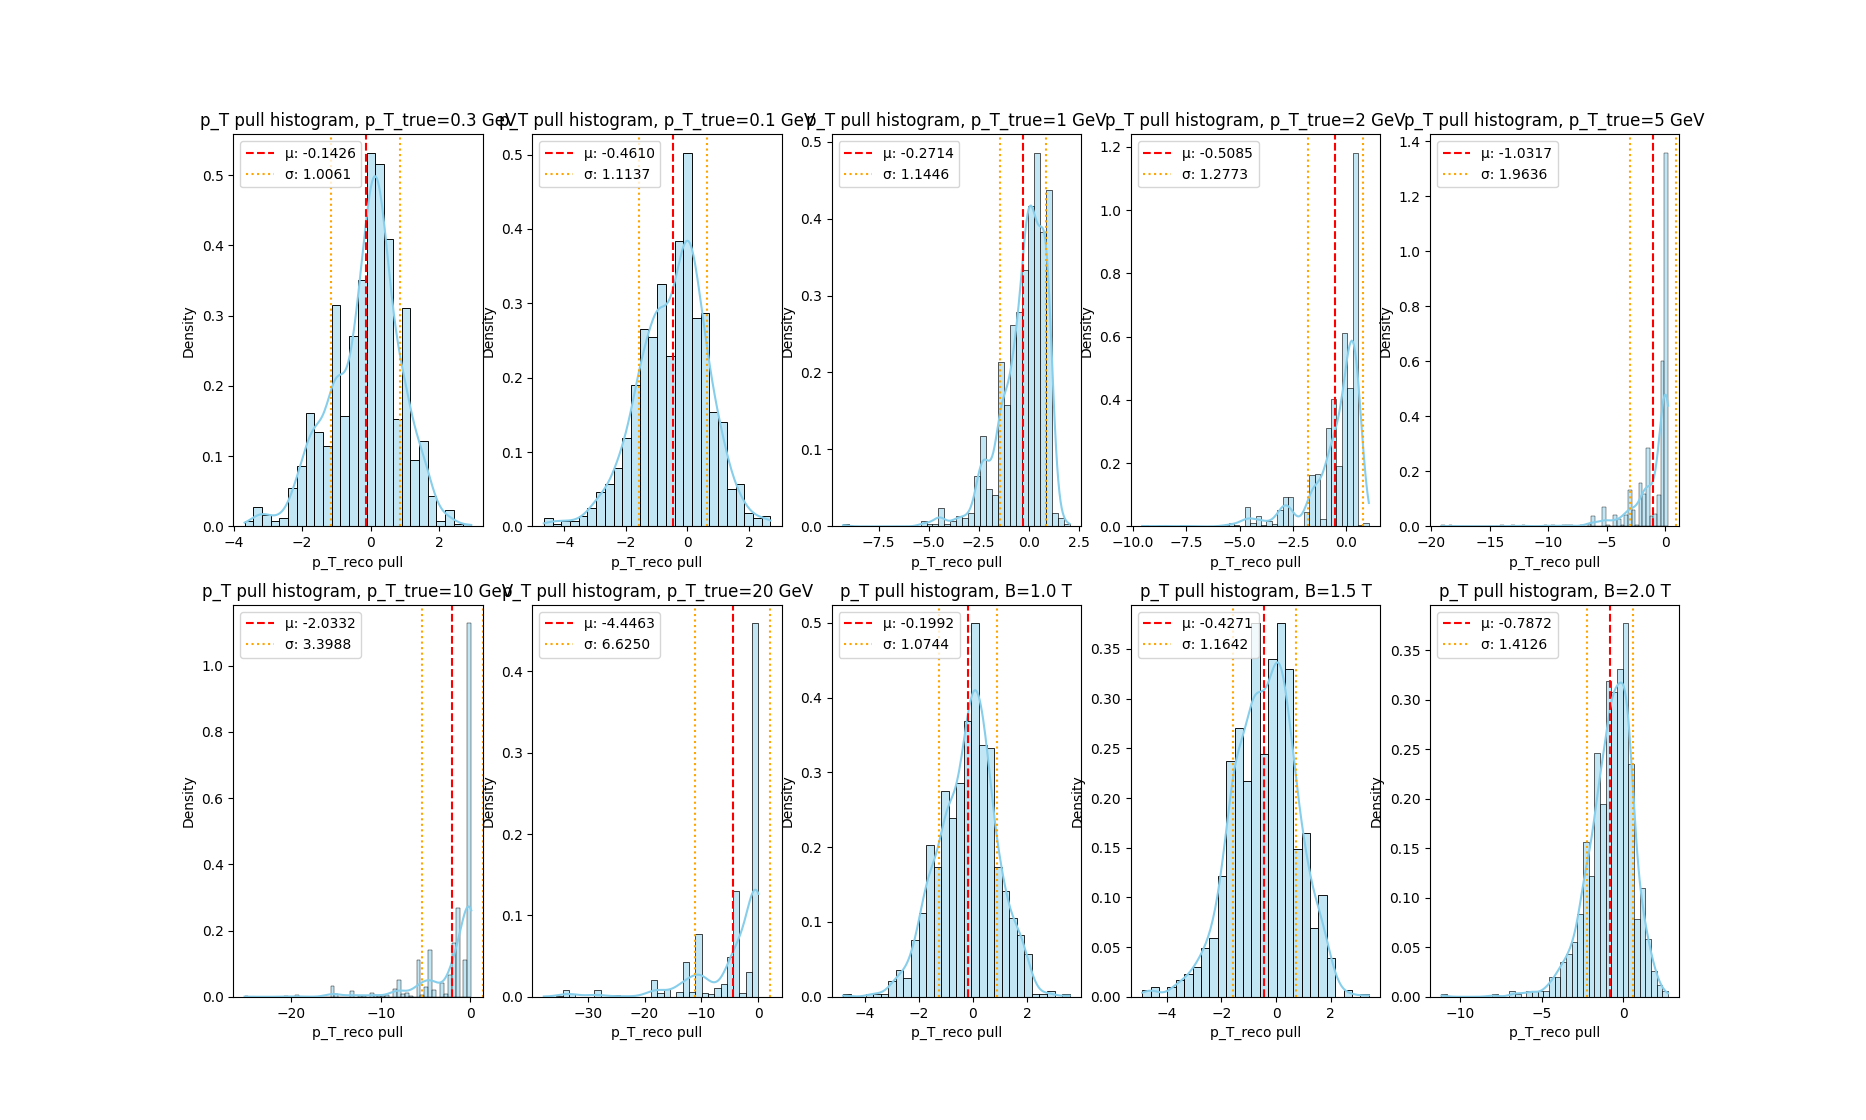
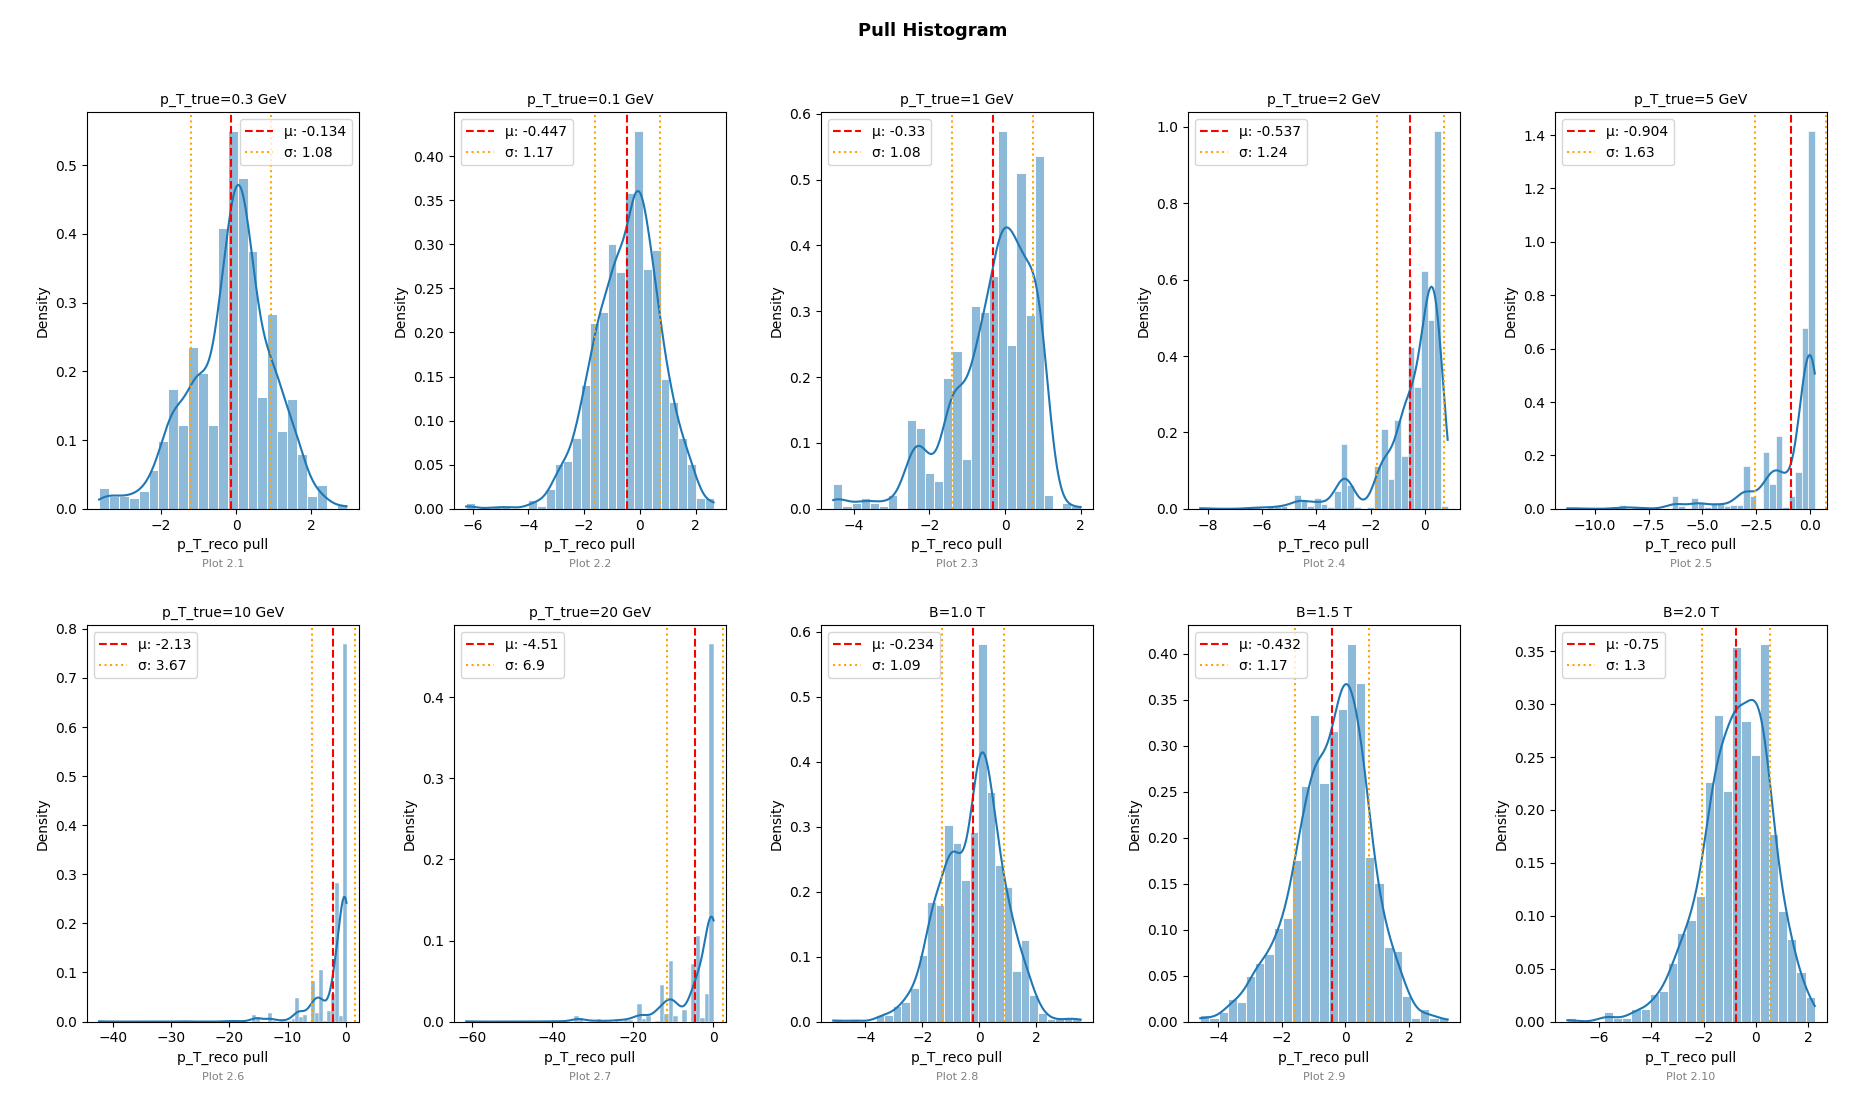
changed formating and layout of plots

diff --git a/Project.py b/Project.py
@@ -292,9 +292,9 @@ def Momentum_Resolution():
     
     print(f"--- Warmup: Reconstruction of p_T ---")
     print(f"p_T true: {p_T_true} GeV")
-    print(f"p_T reconstructed: {p_T_reco_warmup:.5f} GeV")
-    print(f"diff p_T true and reco: {np.abs(p_T_true - p_T_reco_warmup):.5f} GeV")
-    print(f"uncertainty of reconstruction: {p_T_reco_unc_warmup:.5f} GeV")
+    print(f"p_T reconstructed: {p_T_reco_warmup:.3g} GeV")
+    print(f"diff p_T true and reco: {np.abs(p_T_true - p_T_reco_warmup):.3g} GeV")
+    print(f"uncertainty of reconstruction: {p_T_reco_unc_warmup:.3g} GeV")
     print()
 
     # plot of simulation
@@ -391,6 +391,7 @@ def Momentum_Resolution():
     ## d) calculate histograms of differences ##
     # prepare plots
     fig, ax = plt.subplots(2, 5, figsize=(20, 12))
+    fig.suptitle("Resolution Histogram", fontsize=13, fontweight="bold")
     #fig.tight_layout(pad=3.0)
     ax = ax.flatten()
 
@@ -412,9 +413,9 @@ def Momentum_Resolution():
     mean = np.mean(p_T_diff)
     std = np.std(p_T_diff)
 
-    print(f"--- p_T difference histogram statistics p_T_true={p_T_true} GeV, B = {magnet_10_0_5.B} T ---")
-    print(f"μ: {mean} [GeV]")
-    print(f"σ: {std} [GeV]")
+    print(f"--- p_T Resolution histogram statistics p_T_true={p_T_true} GeV, B = {magnet_10_0_5.B} T ---")
+    print(f"μ: {mean:.3g} [GeV]")
+    print(f"σ: {std:.3g} [GeV]")
     print()
 
     # save mean/std
@@ -424,12 +425,13 @@ def Momentum_Resolution():
     B_stds_diff.append(std)
 
     # plot histogram
-    sns.histplot(p_T_diff, bins="auto", stat="density", kde=True, color="skyblue", ax=ax[0])
-    ax[0].axvline(mean, color="red", linestyle="dashed", label=f"μ: {mean:.4f}")
-    ax[0].axvline(mean + std, color="orange", linestyle=":", label=f"σ: {std:.4f}")
+    sns.histplot(p_T_diff, bins="auto", stat="density", kde=True, edgecolor="white", ax=ax[0])
+    ax[0].axvline(mean, color="red", linestyle="dashed", label=f"μ: {mean:.3g}")
+    ax[0].axvline(mean + std, color="orange", linestyle=":", label=f"σ: {std:.3g}")
     ax[0].axvline(mean - std, color="orange", linestyle=":")
-    ax[0].set_title("p_T diff histogram, p_T_true=0.3 GeV")
+    ax[0].set_title("p_T_true=0.3 GeV", fontsize=10)
     ax[0].set_xlabel("p_T_reco − p_T_true [GeV]")
+    ax[0].annotate(f'Plot 1.1', xy=(0.5, -0.14), xycoords='axes fraction', ha='center', va='center', fontsize=8, color='gray')
     ax[0].set_ylabel("Density")
     ax[0].legend()
 
@@ -437,6 +439,7 @@ def Momentum_Resolution():
     ## e) calculate histogram  of pulls ##
     # prepare plots
     fig2, bx = plt.subplots(2, 5, figsize=(20, 12))
+    fig2.suptitle("Pull Histogram", fontsize=13, fontweight="bold")
     #fig2.tight_layout(pad=3.0)
     bx = bx.flatten()
 
@@ -448,9 +451,9 @@ def Momentum_Resolution():
     mean = np.mean(p_T_pulls_0_3)
     std = np.std(p_T_pulls_0_3)
 
-    print(f"--- p_T pull histogram statistics p_T_true={p_T_true} GeV, B = {magnet_10_0_5.B} T ---")
-    print(f"μ: {mean} [GeV]")
-    print(f"σ: {std} [GeV]")
+    print(f"--- p_T Pull histogram statistics p_T_true={p_T_true} GeV, B = {magnet_10_0_5.B} T ---")
+    print(f"μ: {mean:3g} [GeV]")
+    print(f"σ: {std:3g} [GeV]")
     print()
 
     # save mean/std
@@ -460,13 +463,14 @@ def Momentum_Resolution():
     B_stds_pull.append(std)
 
     # plot histogram
-    sns.histplot(p_T_pulls_0_3, bins="auto", stat="density", kde=True, color="skyblue", ax=bx[0])
-    bx[0].axvline(mean, color="red", linestyle="dashed", label=f"μ: {mean:.4f}")
-    bx[0].axvline(mean + std, color="orange", linestyle=":", label=f"σ: {std:.4f}")
+    sns.histplot(p_T_pulls_0_3, bins="auto", stat="density", kde=True, edgecolor="white", ax=bx[0])
+    bx[0].axvline(mean, color="red", linestyle="dashed", label=f"μ: {mean:.3g}")
+    bx[0].axvline(mean + std, color="orange", linestyle=":", label=f"σ: {std:.3g}")
     bx[0].axvline(mean - std, color="orange", linestyle=":")
-    bx[0].set_title("p_T pull histogram, p_T_true=0.3 GeV")
+    bx[0].set_title("p_T_true=0.3 GeV", fontsize=10)
     bx[0].set_xlabel("p_T_reco pull")
     bx[0].set_ylabel("Density")
+    bx[0].annotate(f'Plot 2.1', xy=(0.5, -0.14), xycoords='axes fraction', ha='center', va='center', fontsize=8, color='gray')
     bx[0].legend()
 
     # prepare plots for overlay plot
@@ -480,13 +484,13 @@ def Momentum_Resolution():
     colors_B  = plt.cm.plasma(np.linspace(0.2, 1, 4))
 
     # calculate kde
-    cx[0].plot(x_ref, gaussian_kde(p_T_pulls_0_3)(x_ref), color=colors_pT[0], label=f"p_T=0.3 GeV (μ={mean:.2f}, σ={std:.2f})")
-    cx[1].plot(x_ref, gaussian_kde(p_T_pulls_0_3)(x_ref), color=colors_pT[0], label=f"B=0.5 T (μ={mean:.2f}, σ={std:.2f})")
+    cx[0].plot(x_ref, gaussian_kde(p_T_pulls_0_3)(x_ref), color=colors_pT[0], label=f"p_T=0.3 GeV (μ={mean:.3g}, σ={std:.3g})")
+    cx[1].plot(x_ref, gaussian_kde(p_T_pulls_0_3)(x_ref), color=colors_pT[0], label=f"B=0.5 T (μ={mean:.3g}, σ={std:.3g})")
 
     # plot mean/std as s function of p_T_true and B
     fig4, dx = plt.subplots(2, 4, figsize=(20, 12))
     dx = dx.flatten()
-    fig4.suptitle("Evolution of Diff/Pull Statistcs", fontsize=13, fontweight="bold")
+    fig4.suptitle("Evolution of Resolution/Pull Statistcs", fontsize=13, fontweight="bold")
     p_T_x_range = [0.3,0.1,1,2,5,10,20]
     B_x_range = [0.5,1.0,1.5,2.0]
 
@@ -582,9 +586,9 @@ def Momentum_Resolution():
         mean = np.mean(p_T_diff)
         std = np.std(p_T_diff)
 
-        print(f"--- p_T difference histogram statistics p_T_true={p_T} GeV, B={magnet_10_0_5.B} T ---")
-        print(f"μ: {mean} [GeV]")
-        print(f"σ: {std} [GeV]")
+        print(f"--- p_T Resolution histogram statistics p_T_true={p_T} GeV, B={magnet_10_0_5.B} T ---")
+        print(f"μ: {mean:.3g} [GeV]")
+        print(f"σ: {std:.3g} [GeV]")
         print()
 
         # save mean/std
@@ -592,13 +596,14 @@ def Momentum_Resolution():
         p_T_stds_diff.append(std)
 
         # plot histogram
-        sns.histplot(p_T_diff, bins="auto", stat="density", kde=True, color="skyblue", ax=ax[index])
-        ax[index].axvline(mean, color="red", linestyle="dashed", label=f"μ: {mean:.4f}")
-        ax[index].axvline(mean + std, color="orange", linestyle=":", label=f"σ: {std:.4f}")
+        sns.histplot(p_T_diff, bins="auto", stat="density", kde=True, edgecolor="white", ax=ax[index])
+        ax[index].axvline(mean, color="red", linestyle="dashed", label=f"μ: {mean:.3g}")
+        ax[index].axvline(mean + std, color="orange", linestyle=":", label=f"σ: {std:.3g}")
         ax[index].axvline(mean - std, color="orange", linestyle=":")
-        ax[index].set_title(f"p_T diff histogram, p_T_true={p_T} GeV")
+        ax[index].set_title(f"p_T_true={p_T} GeV", fontsize=10)
         ax[index].set_xlabel("p_T_reco − p_T_true [GeV]")
         ax[index].set_ylabel("Density")
+        ax[index].annotate(f'Plot 1.{index+1}', xy=(0.5, -0.14), xycoords='axes fraction', ha='center', va='center', fontsize=8, color='gray')
         ax[index].legend()
 
 
@@ -611,9 +616,9 @@ def Momentum_Resolution():
         mean = np.mean(p_T_pulls)
         std = np.std(p_T_pulls)
 
-        print(f"--- p_T pull histogram statistics p_T_true={p_T} GeV, B={magnet_10_0_5.B} T ---")
-        print(f"μ: {mean} [GeV]")
-        print(f"σ: {std} [GeV]")
+        print(f"--- p_T Pull histogram statistics p_T_true={p_T} GeV, B={magnet_10_0_5.B} T ---")
+        print(f"μ: {mean:.3g} [GeV]")
+        print(f"σ: {std:.3g} [GeV]")
         print()
 
         # save mean/std
@@ -621,17 +626,18 @@ def Momentum_Resolution():
         p_T_stds_pull.append(std)
 
         # plot histogram
-        sns.histplot(p_T_pulls, bins="auto", stat="density", kde=True, color="skyblue", ax=bx[index])
-        bx[index].axvline(mean, color="red", linestyle="dashed", label=f"μ: {mean:.4f}")
-        bx[index].axvline(mean + std, color="orange", linestyle=":", label=f"σ: {std:.4f}")
+        sns.histplot(p_T_pulls, bins="auto", stat="density", kde=True, edgecolor="white", ax=bx[index])
+        bx[index].axvline(mean, color="red", linestyle="dashed", label=f"μ: {mean:.3g}")
+        bx[index].axvline(mean + std, color="orange", linestyle=":", label=f"σ: {std:.3g}")
         bx[index].axvline(mean - std, color="orange", linestyle=":")
-        bx[index].set_title(f"p_T pull histogram, p_T_true={p_T} GeV")
+        bx[index].set_title(f"p_T_true={p_T} GeV", fontsize=10)
         bx[index].set_xlabel("p_T_reco pull")
         bx[index].set_ylabel("Density")
+        bx[index].annotate(f'Plot 2.{index+1}', xy=(0.5, -0.14), xycoords='axes fraction', ha='center', va='center', fontsize=8, color='gray')
         bx[index].legend()
 
         # plot kde
-        cx[0].plot(x_ref, gaussian_kde(p_T_pulls)(x_ref), color=colors_pT[index], label=f"p_T={p_T} GeV (μ={mean:.2f}, σ={std:.2f})")
+        cx[0].plot(x_ref, gaussian_kde(p_T_pulls)(x_ref), color=colors_pT[index], label=f"p_T={p_T} GeV (μ={mean:.3g}, σ={std:.3g})")
 
 
     ### Repeat c)-e) for B in in {1.0,1.5,2.0} T, p_T_true = 0.3 GeV ###
@@ -727,9 +733,9 @@ def Momentum_Resolution():
         mean = np.mean(p_T_diff)
         std = np.std(p_T_diff)
 
-        print(f"--- p_T difference histogram statistics p_T_true={p_T_true} GeV, B={magnet_10.B} T ---")
-        print(f"μ: {mean} [GeV]")
-        print(f"σ: {std} [GeV]")
+        print(f"--- p_T Resolution histogram statistics p_T_true={p_T_true} GeV, B={magnet_10.B} T ---")
+        print(f"μ: {mean:.3g} [GeV]")
+        print(f"σ: {std:.3g} [GeV]")
         print()
 
         # save mean/std
@@ -737,13 +743,14 @@ def Momentum_Resolution():
         B_stds_diff.append(std)
 
         # plot histogram
-        sns.histplot(p_T_diff, bins="auto", stat="density", kde=True, color="skyblue", ax=ax[index])
-        ax[index].axvline(mean, color="red", linestyle="dashed", label=f"μ: {mean:.4f}")
-        ax[index].axvline(mean + std, color="orange", linestyle=":", label=f"σ: {std:.4f}")
+        sns.histplot(p_T_diff, bins="auto", stat="density", kde=True, edgecolor="white", ax=ax[index])
+        ax[index].axvline(mean, color="red", linestyle="dashed", label=f"μ: {mean:.3g}")
+        ax[index].axvline(mean + std, color="orange", linestyle=":", label=f"σ: {std:.3g}")
         ax[index].axvline(mean - std, color="orange", linestyle=":")
-        ax[index].set_title(f"p_T diff histogram, B={magnet_10.B} T")
+        ax[index].set_title(f"B={magnet_10.B} T", fontsize=10)
         ax[index].set_xlabel("p_T_reco − p_T_true [GeV]")
         ax[index].set_ylabel("Density")
+        ax[index].annotate(f'Plot 1.{index+1}', xy=(0.5, -0.14), xycoords='axes fraction', ha='center', va='center', fontsize=8, color='gray')
         ax[index].legend()
 
 
@@ -756,9 +763,9 @@ def Momentum_Resolution():
         mean = np.mean(p_T_pulls)
         std = np.std(p_T_pulls)
 
-        print(f"--- p_T pull histogram statistics p_T_true={p_T_true} GeV, B={magnet_10.B} T ---")
-        print(f"μ: {mean} [GeV]")
-        print(f"σ: {std} [GeV]")
+        print(f"--- p_T Pull histogram statistics p_T_true={p_T_true} GeV, B={magnet_10.B} T ---")
+        print(f"μ: {mean:.3g} [GeV]")
+        print(f"σ: {std:.3g} [GeV]")
         print()
 
         # save mean/std
@@ -766,32 +773,35 @@ def Momentum_Resolution():
         B_stds_pull.append(std)
 
         # plot histogram
-        sns.histplot(p_T_pulls, bins="auto", stat="density", kde=True, color="skyblue", ax=bx[index])
-        bx[index].axvline(mean, color="red", linestyle="dashed", label=f"μ: {mean:.4f}")
-        bx[index].axvline(mean + std, color="orange", linestyle=":", label=f"σ: {std:.4f}")
+        sns.histplot(p_T_pulls, bins="auto", stat="density", kde=True, edgecolor="white", ax=bx[index])
+        bx[index].axvline(mean, color="red", linestyle="dashed", label=f"μ: {mean:.3g}")
+        bx[index].axvline(mean + std, color="orange", linestyle=":", label=f"σ: {std:.3g}")
         bx[index].axvline(mean - std, color="orange", linestyle=":")
-        bx[index].set_title(f"p_T pull histogram, B={magnet_10.B} T")
+        bx[index].set_title(f"B={magnet_10.B} T", fontsize=10)
         bx[index].set_xlabel("p_T_reco pull")
         bx[index].set_ylabel("Density")
+        bx[index].annotate(f'Plot 2.{index+1}', xy=(0.5, -0.14), xycoords='axes fraction', ha='center', va='center', fontsize=8, color='gray')
         bx[index].legend()
 
         # plot kde
-        cx[1].plot(x_ref, gaussian_kde(p_T_pulls)(x_ref), color=colors_B[index-7], label=f"B={magnet_10.B} T (μ={mean:.2f}, σ={std:.2f})")
+        cx[1].plot(x_ref, gaussian_kde(p_T_pulls)(x_ref), color=colors_B[index-7], label=f"B={magnet_10.B} T (μ={mean:.3g}, σ={std:.3g})")
 
     # plot information cx
     cx[0].axvline(0, color='grey', linewidth=0.8, alpha=0.5)
     cx[0].set_xlim(-10, 5)
     cx[0].set_xlabel("Pull")
     cx[0].set_ylabel("Density")
-    cx[0].set_title("Pull vs. p_T_true (B=0.5 T)")
-    cx[0].legend(fontsize=7)
+    cx[0].set_title("Pull vs. p_T_true (B=0.5 T)", fontsize=10)
+    cx[0].annotate(f'Plot 3.{1}', xy=(0.5, -0.12), xycoords='axes fraction', ha='center', va='center', fontsize=8, color='gray')
+    cx[0].legend()
 
     cx[1].axvline(0, color='grey', linewidth=0.8, alpha=0.5)
     cx[1].set_xlim(-10, 5)
     cx[1].set_xlabel("Pull")
     cx[1].set_ylabel("Density")
-    cx[1].set_title("Pull vs. B (p_T_true=0.3 GeV)")
-    cx[1].legend(fontsize=7)
+    cx[1].set_title("Pull vs. B (p_T_true=0.3 GeV)", fontsize=10)
+    cx[1].annotate(f'Plot 3.{2}', xy=(0.5, -0.12), xycoords='axes fraction', ha='center', va='center', fontsize=8, color='gray')
+    cx[1].legend()
 
     
     # swap p_T=0.1 and =0.3 because wrong order (first experiment is with 0.3)
@@ -807,50 +817,64 @@ def Momentum_Resolution():
     dx[0].plot(p_T_x_range, p_T_means_diff, color="orange")
     dx[0].set_xlabel("p_T [GeV]")
     dx[0].set_ylabel("μ of Diff")
-    dx[0].set_title(f"Evolution μ(p_T) of Diff")
+    dx[0].set_title(f"μ(p_T) of Resolution", fontsize=10)
     dx[0].set_ylim(np.min(p_T_means_diff)-1, np.max(p_T_means_diff)+1)
+    dx[0].annotate(f'Plot 4.{1}', xy=(0.5, -0.14), xycoords='axes fraction', ha='center', va='center', fontsize=8, color='gray')
+
     dx[1].plot(p_T_x_range, p_T_means_pull, color="orange")
     dx[1].set_xlabel("p_T [GeV]")
     dx[1].set_ylabel("μ of Pull")
-    dx[1].set_title(f"Evolution μ(p_T) of Pull")
+    dx[1].set_title(f"μ(p_T) of Pull", fontsize=10)
     dx[1].set_ylim(np.min(p_T_means_pull)-1, np.max(p_T_means_pull)+1)
+    dx[1].annotate(f'Plot 4.{2}', xy=(0.5, -0.14), xycoords='axes fraction', ha='center', va='center', fontsize=8, color='gray')
+
     dx[2].plot(B_x_range, B_means_diff, color="orange")
     dx[2].set_xlabel("B [T]")
-    dx[2].set_ylabel("μ of Diff")
-    dx[2].set_title(f"Evolution μ(B) of Diff")
+    dx[2].set_ylabel("μ of Resolution")
+    dx[2].set_title(f"μ(B) of Resolution", fontsize=10)
     dx[2].set_ylim(np.min(B_means_diff)-1, np.max(B_means_diff)+1)
+    dx[2].annotate(f'Plot 4.{3}', xy=(0.5, -0.14), xycoords='axes fraction', ha='center', va='center', fontsize=8, color='gray')
+
     dx[3].plot(B_x_range, B_means_pull, color="orange")
     dx[3].set_xlabel("B [T]")
     dx[3].set_ylabel("μ of Pull")
-    dx[3].set_title(f"Evolution μ(B) of Pull")
+    dx[3].set_title(f"μ(B) of Pull", fontsize=10)
     dx[3].set_ylim(np.min(p_T_means_pull)-1, np.max(p_T_means_pull)+1)
+    dx[3].annotate(f'Plot 4.{4}', xy=(0.5, -0.14), xycoords='axes fraction', ha='center', va='center', fontsize=8, color='gray')
 
     # plot evolution pull/diff std
     dx[4].plot(p_T_x_range, p_T_stds_diff, color="skyblue")
     dx[4].set_xlabel("p_T [GeV]")
-    dx[4].set_ylabel("σ of Diff")
-    dx[4].set_title(f"Evolution σ(p_T) of Diff")
+    dx[4].set_ylabel("σ of Resolution")
+    dx[4].set_title(f"Evolution σ(p_T) of Resolution", fontsize=10)
     dx[4].set_ylim(np.min(p_T_stds_diff)-1, np.max(p_T_stds_diff)+1)
+    dx[4].annotate(f'Plot 4.{5}', xy=(0.5, -0.14), xycoords='axes fraction', ha='center', va='center', fontsize=8, color='gray')
+
     dx[5].plot(p_T_x_range, p_T_stds_pull, color="skyblue")
     dx[5].set_xlabel("p_T [GeV]")
     dx[5].set_ylabel("σ of Pull")
-    dx[5].set_title(f"Evolution σ(p_T) of Pull")
+    dx[5].set_title(f"Evolution σ(p_T) of Pull", fontsize=10)
     dx[5].set_ylim(np.min(p_T_stds_pull)-1, np.max(p_T_stds_pull)+1)
+    dx[5].annotate(f'Plot 4.{6}', xy=(0.5, -0.14), xycoords='axes fraction', ha='center', va='center', fontsize=8, color='gray')
+
     dx[6].plot(B_x_range, B_stds_diff, color="skyblue")
     dx[6].set_xlabel("B [T]")
-    dx[6].set_ylabel("σ of Diff")
-    dx[6].set_title(f"Evolution σ(B) of Diff")
+    dx[6].set_ylabel("σ of Resolution")
+    dx[6].set_title(f"Evolution σ(B) of Resolution", fontsize=10)
     dx[6].set_ylim(np.min(B_stds_diff)-1, np.max(B_stds_diff)+1)
+    dx[6].annotate(f'Plot 4.{7}', xy=(0.5, -0.14), xycoords='axes fraction', ha='center', va='center', fontsize=8, color='gray')
+
     dx[7].plot(B_x_range, B_stds_pull, color="skyblue")
     dx[7].set_xlabel("B [T]")
     dx[7].set_ylabel("σ of Pull")
-    dx[7].set_title(f"Evolution σ(B) of Pull")
+    dx[7].set_title(f"Evolution σ(B) of Pull", fontsize=10)
     dx[7].set_ylim(np.min(p_T_stds_pull)-1, np.max(p_T_stds_pull)+1)
+    dx[7].annotate(f'Plot 4.{8}', xy=(0.5, -0.14), xycoords='axes fraction', ha='center', va='center', fontsize=8, color='gray')
 
-    fig.tight_layout()
-    fig2.tight_layout()
-    fig3.tight_layout()
-    fig4.tight_layout()
+    fig.tight_layout(pad=3)
+    fig2.tight_layout(pad=3)
+    fig3.tight_layout(pad=3)
+    fig4.tight_layout(pad=3)
     plt.show()
 
 
@@ -970,6 +994,7 @@ def Momentum_Resolution():
         chi2_stat = (n-1) * pullx0SD ** 2
         p_val = 2 * min(chi2.cdf(chi2_stat, df=n-1), chi2.sf(chi2_stat, df=n-1))
         p_values_chi2_tracking_x0.append(p_val)
+
     # calculate how many times null hypothesis of μ rejected
     print()
     print("Rejection rate (p < 0.0001%):")
